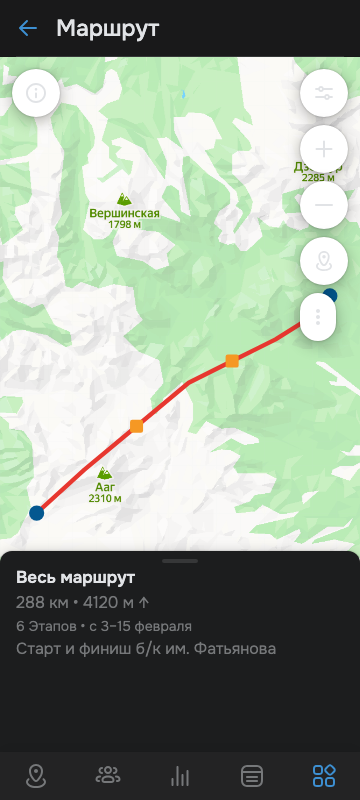
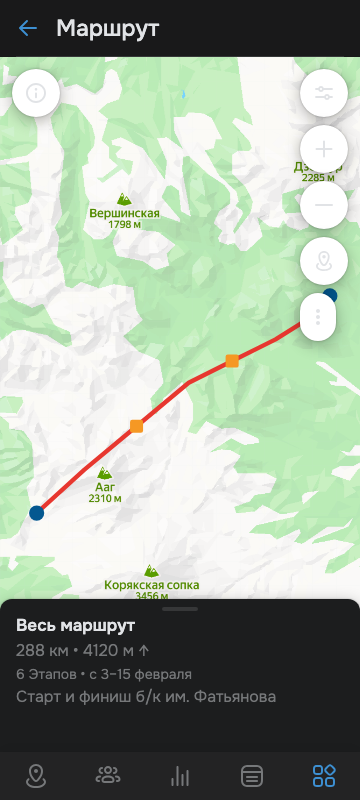
fix(v2): границы шторки Маршрута
Шторка привязана к зоне между шапкой и таббаром, скролл только в full, обновлены скрины v2-route.

Changed region(s): [[0.0, 0.6875, 1.0, 0.875]]

diff --git a/src/components/route/RouteSheet.tsx b/src/components/route/RouteSheet.tsx
@@ -55,9 +55,24 @@ type RouteSheetProps = {
   mapFilter: RouteMapFilter
   initialSnap?: RouteSheetSnap | null
   viewportRef: RefObject<HTMLElement | null>
+  headerRef: RefObject<HTMLElement | null>
 }
 
-export function RouteSheet({ mapFilter, initialSnap, viewportRef }: RouteSheetProps) {
+function readTabbarTotalPx(): number {
+  if (typeof document === 'undefined') {
+    return 48
+  }
+  const root = document.documentElement
+  const styles = getComputedStyle(root)
+  const tabbar = Number.parseFloat(styles.getPropertyValue('--app-tabbar-height')) || 48
+  const safeBottom = Number.parseFloat(
+    styles.getPropertyValue('env(safe-area-inset-bottom)') ||
+      styles.getPropertyValue('--env-safe-area-inset-bottom'),
+  )
+  return tabbar + (Number.isFinite(safeBottom) ? safeBottom : 0)
+}
+
+export function RouteSheet({ mapFilter, initialSnap, viewportRef, headerRef }: RouteSheetProps) {
   const [maxH, setMaxH] = useState(480)
   const [snap, setSnap] = useState<RouteSheetSnap>(initialSnap ?? 'collapsed')
   const [visibleH, setVisibleH] = useState(() => Math.round(480 * SNAP_RATIO.collapsed))
@@ -68,16 +83,32 @@ export function RouteSheet({ mapFilter, initialSnap, viewportRef }: RouteSheetPr
   const moveHistory = useRef<{ t: number; y: number }[]>([])
 
   useLayoutEffect(() => {
-    const node = viewportRef.current
-    if (!node) {
+    const viewport = viewportRef.current
+    if (!viewport) {
       return
     }
-    const measure = () => setMaxH(node.clientHeight)
+    const measure = () => {
+      const headerBottom = headerRef.current?.getBoundingClientRect().bottom
+      const tabbarTotal = readTabbarTotalPx()
+      const availableFromDom =
+        headerBottom != null
+          ? Math.round(window.innerHeight - headerBottom - tabbarTotal)
+          : viewport.clientHeight
+      const available = Math.max(0, Math.min(viewport.clientHeight, availableFromDom))
+      setMaxH(available)
+    }
     measure()
     const observer = new ResizeObserver(measure)
-    observer.observe(node)
-    return () => observer.disconnect()
-  }, [viewportRef])
+    observer.observe(viewport)
+    if (headerRef.current) {
+      observer.observe(headerRef.current)
+    }
+    window.addEventListener('resize', measure)
+    return () => {
+      observer.disconnect()
+      window.removeEventListener('resize', measure)
+    }
+  }, [viewportRef, headerRef])
 
   const applySnap = useCallback(
     (next: RouteSheetSnap) => {
@@ -148,6 +179,13 @@ export function RouteSheet({ mapFilter, initialSnap, viewportRef }: RouteSheetPr
   const showProfile = snap === 'half' || snap === 'full'
   const showDetails = snap === 'full'
 
+  const dragProps = {
+    onPointerDown,
+    onPointerMove,
+    onPointerUp,
+    onPointerCancel: onPointerUp,
+  }
+
   return (
     <div
       className={[
@@ -159,13 +197,11 @@ export function RouteSheet({ mapFilter, initialSnap, viewportRef }: RouteSheetPr
         height: maxH,
         transform: `translateY(${offsetY}px)`,
       }}
+      {...(snap !== 'full' ? dragProps : {})}
     >
       <div
         className="route-sheet__grab"
-        onPointerDown={onPointerDown}
-        onPointerMove={onPointerMove}
-        onPointerUp={onPointerUp}
-        onPointerCancel={onPointerUp}
+        {...(snap === 'full' ? dragProps : {})}
       >
         <span className="route-sheet__grab-bar" aria-hidden />
       </div>

diff --git a/src/panels/RoutePanel.tsx b/src/panels/RoutePanel.tsx
@@ -17,6 +17,7 @@ type RoutePanelProps = {
 export function RoutePanel({ id }: RoutePanelProps) {
   const goBack = useMoreSectionBack()
   const viewportRef = useRef<HTMLDivElement>(null)
+  const headerRef = useRef<HTMLDivElement>(null)
   const initialSnap = useMemo(() => readRouteSheetSnapFromUrl(), [])
   const initialMapFilter = useMemo(() => readRouteMapFilterFromUrl(), [])
 
@@ -30,7 +31,12 @@ export function RoutePanel({ id }: RoutePanelProps) {
 
   return (
     <Panel id={id} className="route-screen">
-      <PanelHeader before={<PanelHeaderBack onClick={goBack} />}>Маршрут</PanelHeader>
+      <PanelHeader
+        getRootRef={headerRef}
+        before={<PanelHeaderBack onClick={goBack} />}
+      >
+        Маршрут
+      </PanelHeader>
       <div ref={viewportRef} className="route-screen__viewport">
         <RoutePlaceholder mapFilter={mapFilter} />
         <RouteMapControls
@@ -49,7 +55,12 @@ export function RoutePanel({ id }: RoutePanelProps) {
         {showStageBanner && typeof mapFilter === 'number' ? (
           <RouteActiveBanner stageNumber={mapFilter} onDismiss={() => setBannerDismissed(true)} />
         ) : null}
-        <RouteSheet mapFilter={mapFilter} initialSnap={initialSnap} viewportRef={viewportRef} />
+        <RouteSheet
+          mapFilter={mapFilter}
+          initialSnap={initialSnap}
+          viewportRef={viewportRef}
+          headerRef={headerRef}
+        />
       </div>
       <RouteFilterSheet
         open={filterOpen}

diff --git a/src/index.css b/src/index.css
@@ -345,7 +345,7 @@ body {
   position: absolute;
   z-index: 4;
   right: 0;
-  bottom: var(--app-tabbar-total-height);
+  bottom: 0;
   left: 0;
   display: flex;
   flex-direction: column;
@@ -355,7 +355,6 @@ body {
   border-start-end-radius: 12px;
   background: var(--vkui--color_background_modal);
   box-shadow: var(--vkui--elevation3);
-  touch-action: none;
   will-change: transform;
   transition: transform 0.28s cubic-bezier(0.32, 0.72, 0, 1);
 }
@@ -364,8 +363,19 @@ body {
   transition: none;
 }
 
+.route-sheet:not(.route-sheet--full) {
+  touch-action: none;
+}
+
+.route-sheet--full .route-sheet__scroll {
+  overflow-y: auto;
+  overscroll-behavior: contain;
+  touch-action: pan-y;
+}
+
 .route-sheet:not(.route-sheet--full) .route-sheet__scroll {
   overflow: hidden;
+  touch-action: none;
 }
 
 .route-sheet__grab {
@@ -388,7 +398,6 @@ body {
   flex: 1;
   min-height: 0;
   padding: 0 16px 16px;
-  overflow: auto;
 }
 
 .route-sheet__title {
